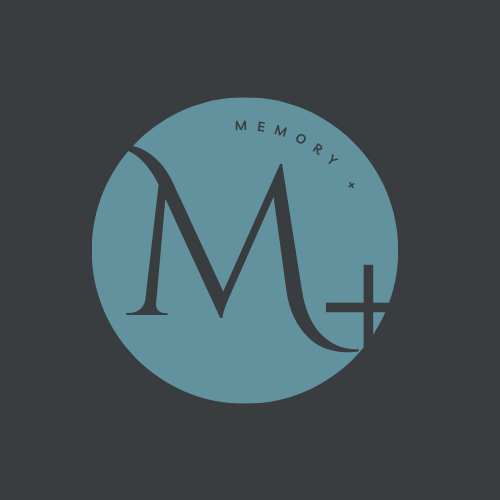
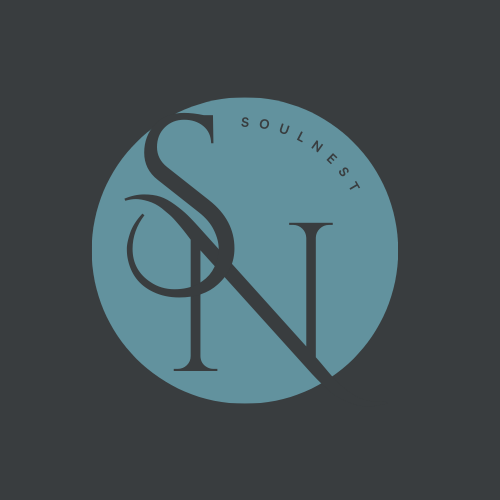
minor adjusts

diff --git a/client/src/components/AboutPage/AboutPage.js b/client/src/components/AboutPage/AboutPage.js
@@ -54,52 +54,25 @@ const AboutPage = ({ toggleDarkMode, isDarkMode }) => {
       <div className='AboutPage_hero'>
         <h1 className='hero_title'>About Us</h1>
         <p className='hero_subtitle'>
-          Welcome to Memory+, where you are cared.
+          Welcome to SoulNest, your haven of peace and care.
         </p>
       </div>
       <div className='AboutPage_content'>
         <h2 className='content_title'>Our Mission</h2>
         <p className='content_text'>
-          Our mission is to empower individuals and organizations by delivering exceptional products and services that enhance efficiency, productivity, and overall success. We strive to foster a culture of continuous improvement and innovation, ensuring that we stay ahead in an ever-evolving industry.
+          Empowering individuals to overcome crises through innovative tools and compassionate support.
         </p>
         <h2 className='content_title'>Our Values</h2>
         <ul className='values_list'>
-          <li className='value_item'><strong>Integrity:</strong> We believe in maintaining transparency and honesty in all our dealings.</li>
-          <li className='value_item'><strong>Excellence:</strong> We are committed to delivering quality services that exceed expectations.</li>
-          <li className='value_item'><strong>Collaboration:</strong> Working together with clients and partners is key to achieving shared success.</li>
-          <li className='value_item'><strong>Innovation:</strong> We embrace creativity and continuously seek new ways to solve problems.</li>
-          <li className='value_item'><strong>Customer Focus:</strong> Our clients are at the heart of everything we do, and we strive to meet their needs with dedication.</li>
+          <li className='value_item'>Compassion: We prioritize empathy and understanding in every interaction.</li>
+          <li className='value_item'>Accessibility: We strive to make mental health support accessible to all.</li>
+          <li className='value_item'>Innovation: We embrace technology to provide cutting-edge solutions.</li>
+          <li className='value_item'>Reliability: We are committed to providing consistent and dependable support.</li>
+          <li className='value_item'>Confidentiality: We prioritize the privacy and security of our users.</li>
         </ul>
-        <h2 className='content_title'>Meet Our Team</h2>
-        <div className='team'>
-          <div className='team-member'>
-            <img src="/images/john-doe.jpg" alt="John Doe" className='team-member_img' />
-            <h3 className='team-member_name'>John Doe</h3>
-            <p className='team-member_role'>Founder & CEO</p>
-            <p className='team-member_description'>With over 20 years of experience in the industry, John leads our team with a vision to innovate and excel.</p>
-          </div>
-          <div className='team-member'>
-            <img src="/images/jane-smith.jpg" alt="Jane Smith" className='team-member_img' />
-            <h3 className='team-member_name'>Jane Smith</h3>
-            <p className='team-member_role'>Chief Operating Officer</p>
-            <p className='team-member_description'>Jane is responsible for the day-to-day operations and ensures that our projects run smoothly and efficiently.</p>
-          </div>
-          <div className='team-member'>
-            <img src="/images/michael-johnson.jpg" alt="Michael Johnson" className='team-member_img' />
-            <h3 className='team-member_name'>Michael Johnson</h3>
-            <p className='team-member_role'>Lead Developer</p>
-            <p className='team-member_description'>As a skilled developer, Michael oversees our development team and ensures that our products meet the highest standards.</p>
-          </div>
-          <div className='team-member'>
-            <img src="/images/emily-davis.jpg" alt="Emily Davis" className='team-member_img' />
-            <h3 className='team-member_name'>Emily Davis</h3>
-            <p className='team-member_role'>Marketing Director</p>
-            <p className='team-member_description'>Emily drives our marketing strategies and helps us reach our audience effectively.</p>
-          </div>
-        </div>
         <h2 className='content_title'>Get In Touch</h2>
         <p className='content_text'>
-          We would love to hear from you! Whether you have questions, need support, or want to collaborate, feel free to reach out to us at <a href="mailto:info@yourcompany.com" className='contact_email'>info@yourcompany.com</a> or connect with us through our social media channels.
+          We would love to hear from you! Whether you have questions, need support, or want to collaborate, feel free to reach out to us at <a href="mailto:soulnest@email.com" className='contact_email'>soulnest@email.com</a>.
         </p>
         <Link to="/contact" onClick={handleTitleClick}><button className='contact-button'>Contact Us</button></Link>
       </div>

diff --git a/client/src/components/NavBar/NavBar_SignedIn/NavBar.js b/client/src/components/NavBar/NavBar_SignedIn/NavBar.js
@@ -82,10 +82,10 @@ const NavBarSignedIn = ({ toggleDarkMode, isDarkMode }) => {
         <Link to="/" onClick={handleTitleClick}>OUR PLATFORM</Link>
       </h1>
       <ul className="nav-links">
-        <li><Link to="/about" onClick={handleTitleClick}>About Us</Link></li>
         <li><Link to="/dashboard" onClick={handleTitleClick}>Dashboard</Link></li>
         <li><Link to="/calendar" onClick={handleTitleClick}>Calendar</Link></li>
         <li><Link to="/chatbot" onClick={handleTitleClick}>Chatbot</Link></li>
+        <li><Link to="/about" onClick={handleTitleClick}>About Us</Link></li>
         <li className="user-info-dropdown">
           <button
             onClick={toggleUserDropdown}
